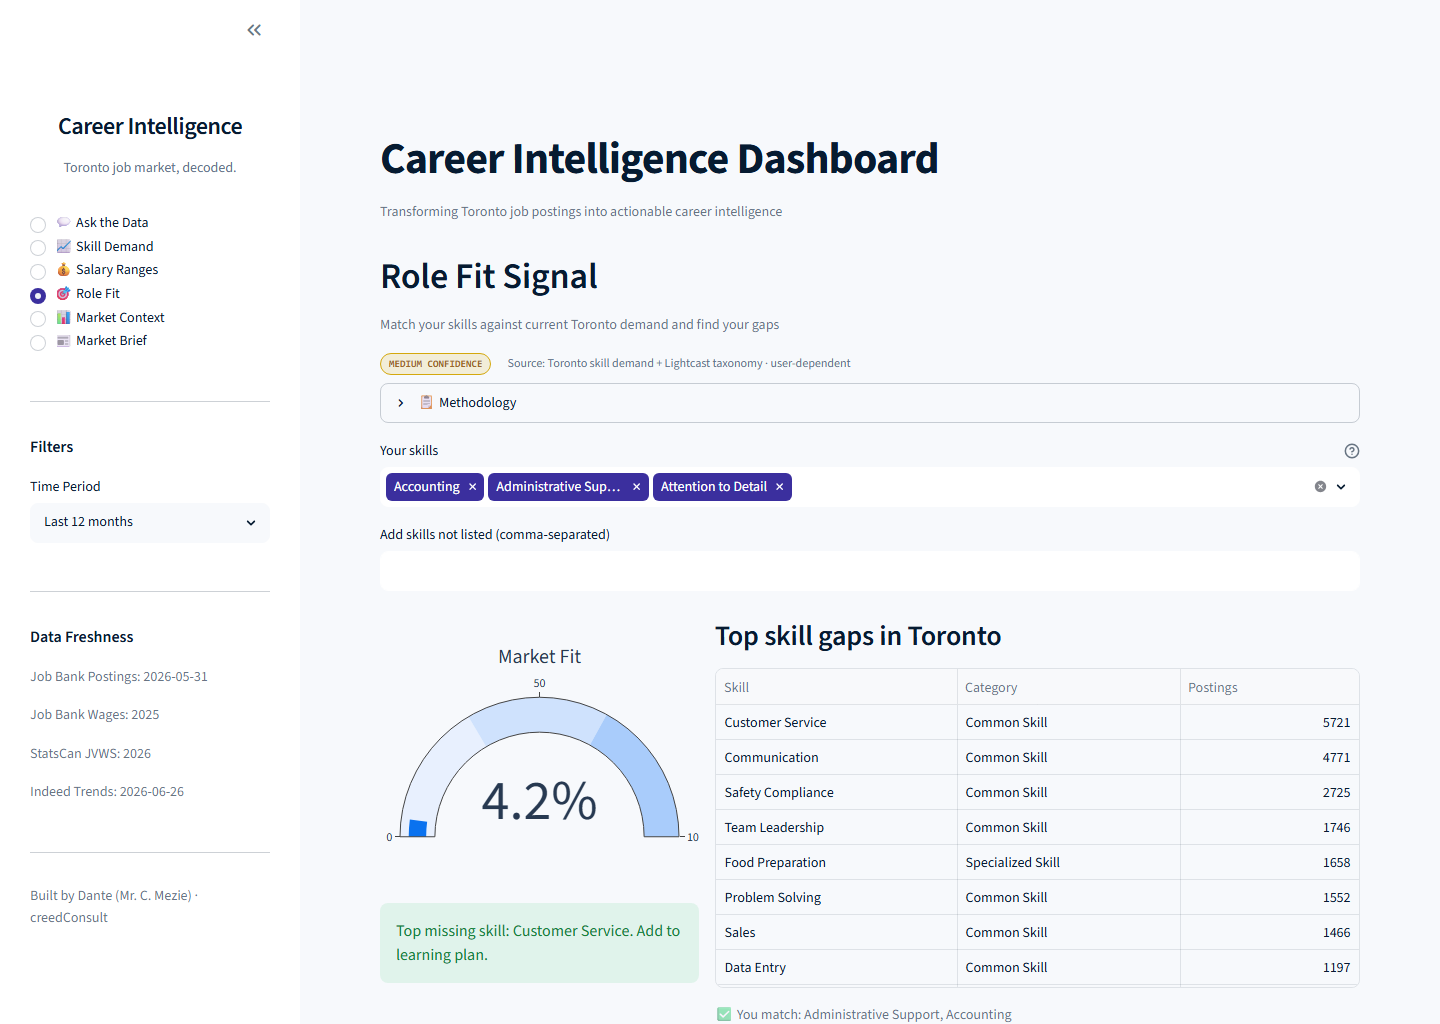
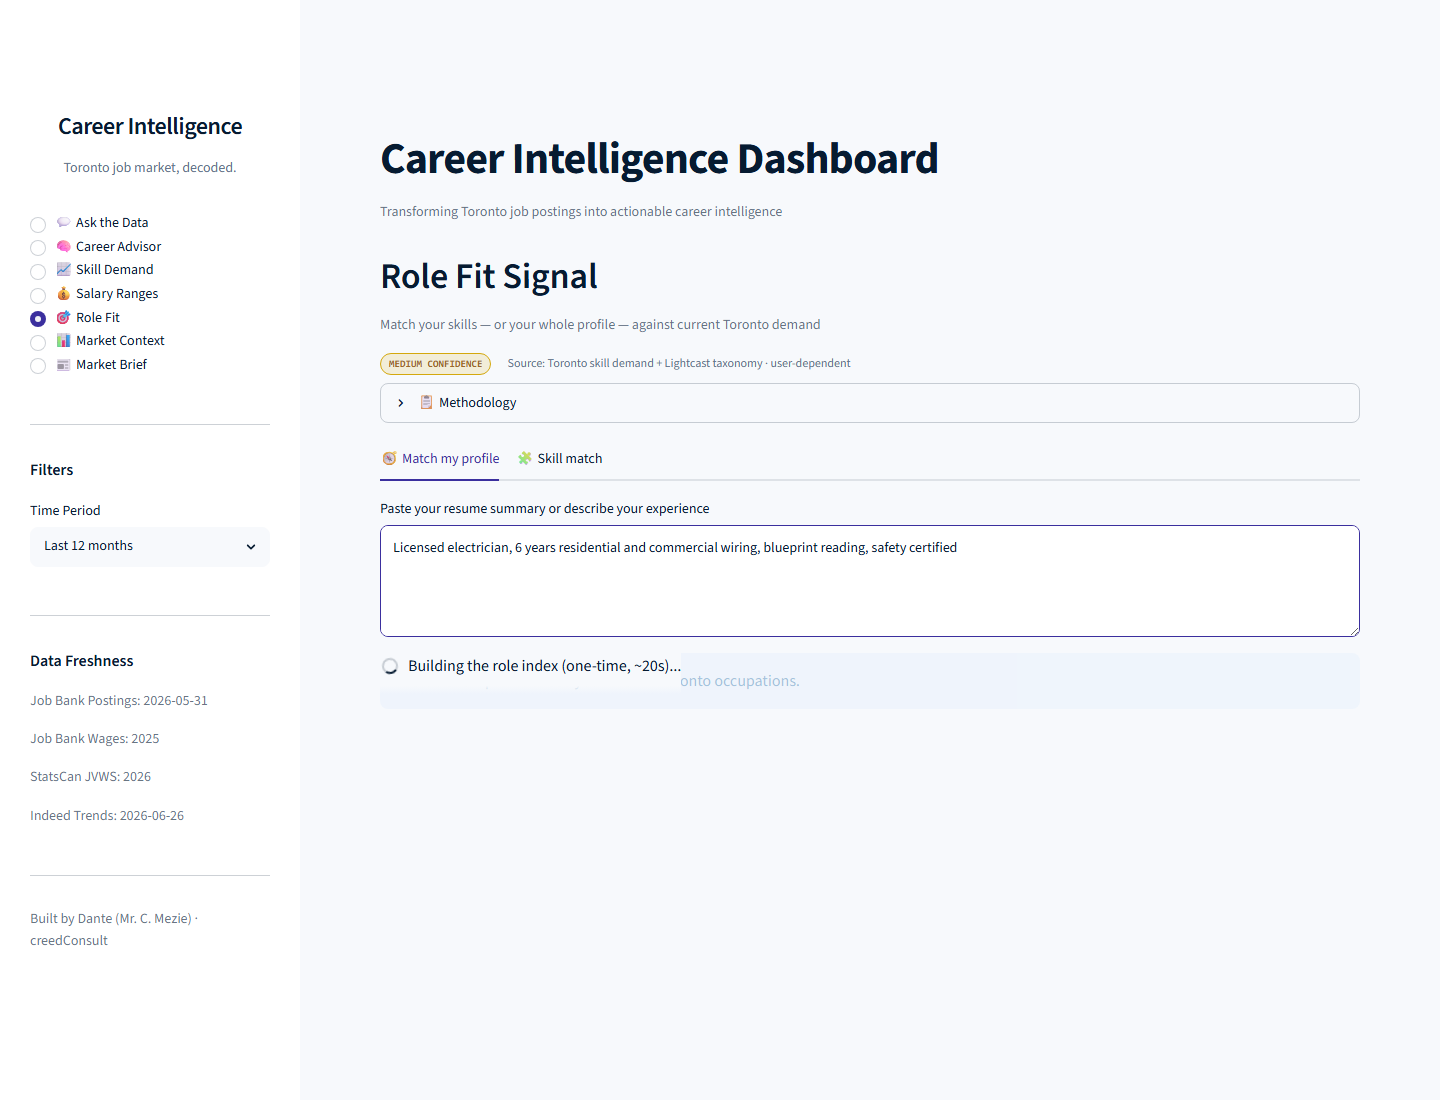
polish: dollar-escaping in LLM display (no LaTeX artifacts), README for advisor + role match, fresh screenshots

diff --git a/streamlit_app/pages_impl/advisor.py b/streamlit_app/pages_impl/advisor.py
@@ -5,7 +5,7 @@ from pathlib import Path
 import duckdb
 import streamlit as st
 
-from ._shared import data_meta, methodology
+from ._shared import data_meta, methodology, money_safe
 
 METHODOLOGY = """
 **How it works:** Your question is turned into specific data questions, each answered by executed SQL
@@ -47,7 +47,7 @@ def render(date_range: str = "Last 12 months") -> None:
     history = st.session_state.setdefault("advisor_history", [])
     for msg in history:
         with st.chat_message(msg["role"]):
-            st.markdown(msg["content"])
+            st.markdown(money_safe(msg["content"]))
             for src in msg.get("sources", []):
                 with st.expander(f"🔎 Source: {src['q'][:60]}"):
                     st.code(src["sql"] or "", language="sql")
@@ -79,7 +79,7 @@ def render(date_range: str = "Last 12 months") -> None:
                 adv = advise(prompt, con, gw)
             finally:
                 con.close()
-        st.markdown(adv.answer)
+        st.markdown(money_safe(adv.answer))
         sources = [{"q": s.question, "sql": s.sql} for s in adv.sources]
         for src in sources:
             with st.expander(f"🔎 Source: {src['q'][:60]}"):

diff --git a/streamlit_app/pages_impl/brief.py b/streamlit_app/pages_impl/brief.py
@@ -3,7 +3,7 @@ from pathlib import Path
 
 import streamlit as st
 
-from ._shared import data_meta, methodology
+from ._shared import data_meta, methodology, money_safe
 
 METHODOLOGY = """
 **How it's made:** Once a month the pipeline computes the section figures (postings, skills,
@@ -29,5 +29,5 @@ def render(date_range: str = "Last 12 months") -> None:
     labels = [p.stem for p in briefs]
     pick = st.selectbox("Edition", labels, index=0)
     md = (BRIEFS_DIR / f"{pick}.md").read_text(encoding="utf-8")
-    st.markdown(md)
+    st.markdown(money_safe(md))
     st.download_button("Download Markdown", md, file_name=f"market-brief-{pick}.md")

diff --git a/streamlit_app/pages_impl/ask.py b/streamlit_app/pages_impl/ask.py
@@ -4,7 +4,7 @@ import os
 import duckdb
 import streamlit as st
 
-from ._shared import data_meta, methodology
+from ._shared import data_meta, methodology, money_safe
 
 METHODOLOGY = """
 **How it works:** Your question is sent to an LLM with the database schema (never the data). The
@@ -90,7 +90,7 @@ def render(date_range: str = "Last 12 months") -> None:
         return
 
     if ans.grounded and ans.prose:
-        st.success(ans.prose)
+        st.success(money_safe(ans.prose))
     elif ans.prose:
         st.warning("Answer shown as data only (the drafted summary couldn't be verified against the result).")
 

diff --git a/streamlit_app/pages_impl/_shared.py b/streamlit_app/pages_impl/_shared.py
@@ -28,6 +28,11 @@ def methodology(markdown_text: str) -> None:
         st.markdown(markdown_text)
 
 
+def money_safe(text: str) -> str:
+    """Escape ``$`` so Streamlit doesn't render '$20-$30' as LaTeX math."""
+    return (text or "").replace("$", "\\$")
+
+
 def style_fig(fig, accent: str = "ink"):
     fig.update_layout(
         plot_bgcolor="rgba(0,0,0,0)",

diff --git a/README.md b/README.md
@@ -17,9 +17,10 @@ consulting.
 | View | Question it answers | How |
 |------|---------------------|-----|
 | **💬 Ask the Data** | Any plain-English question about the market | Grounded text-to-SQL: LLM writes a SELECT, it's validated + executed, and the answer is verified against the result (80% exec accuracy, **0 wrong numbers shown**) |
+| **🧠 Career Advisor** | "I'm a cook — what pays more?" open-ended guidance | Plan → grounded-SQL fetch → compose → fact-check; refuses out-of-scope (5/5), 0.91 faithfulness; every answer shows its data sources |
 | **📈 Skill Demand** | Which skills are most in demand, and what's emerging? | 12 months of Job Bank postings, dual extraction (dictionary + LLM) |
 | **💰 Salary Ranges** | What does each role pay (hourly-equivalent)? | Job Bank wages + StatsCan JVWS, vacancy-weighted |
-| **🎯 Role Fit** | Given my skills, where am I competitive? | Skill-overlap scoring against live demand |
+| **🎯 Role Fit** | Given my skills or resume, where am I competitive? | Skill-overlap scoring **and** semantic profile→role matching (embedded Qdrant hybrid, 8/8 top-5) |
 | **📊 Market Context** | Hiring momentum, vacancies, wage growth, AI demand | Indeed Hiring Lab + StatsCan time series |
 | **📰 Market Brief** | "What happened this month?" — publishable narrative | LLM-narrated over pipeline-computed figures; faithfulness 0.94, 100% numeric grounding |
 
@@ -63,9 +64,11 @@ downloaders ──> data/raw ──> transform.py ──> DuckDB ──> insight
  CKAN/WDS/GitHub             (idempotent)       │
                                                 └──> src/llm/  (LiteLLM gateway · SQLGlot guard ·
                                                      numeric grounding · response cache · eval harness)
-                                                       ├─ ask     (grounded text-to-SQL Q&A)
-                                                       ├─ brief   (grounded monthly narrative)
-                                                       └─ skills  (batched Haiku extraction)
+                                                       ├─ ask         (grounded text-to-SQL Q&A)
+                                                       ├─ advisor     (plan→fetch→compose→verify chat)
+                                                       ├─ brief       (grounded monthly narrative)
+                                                       ├─ skills_llm  (batched Haiku extraction)
+                                                       └─ role_match  (embedded Qdrant hybrid)
 ```
 
 - **`src/pipeline/`** — data package: io_utils, market config, NOC mapper, taxonomy, matcher, salary, insights.
